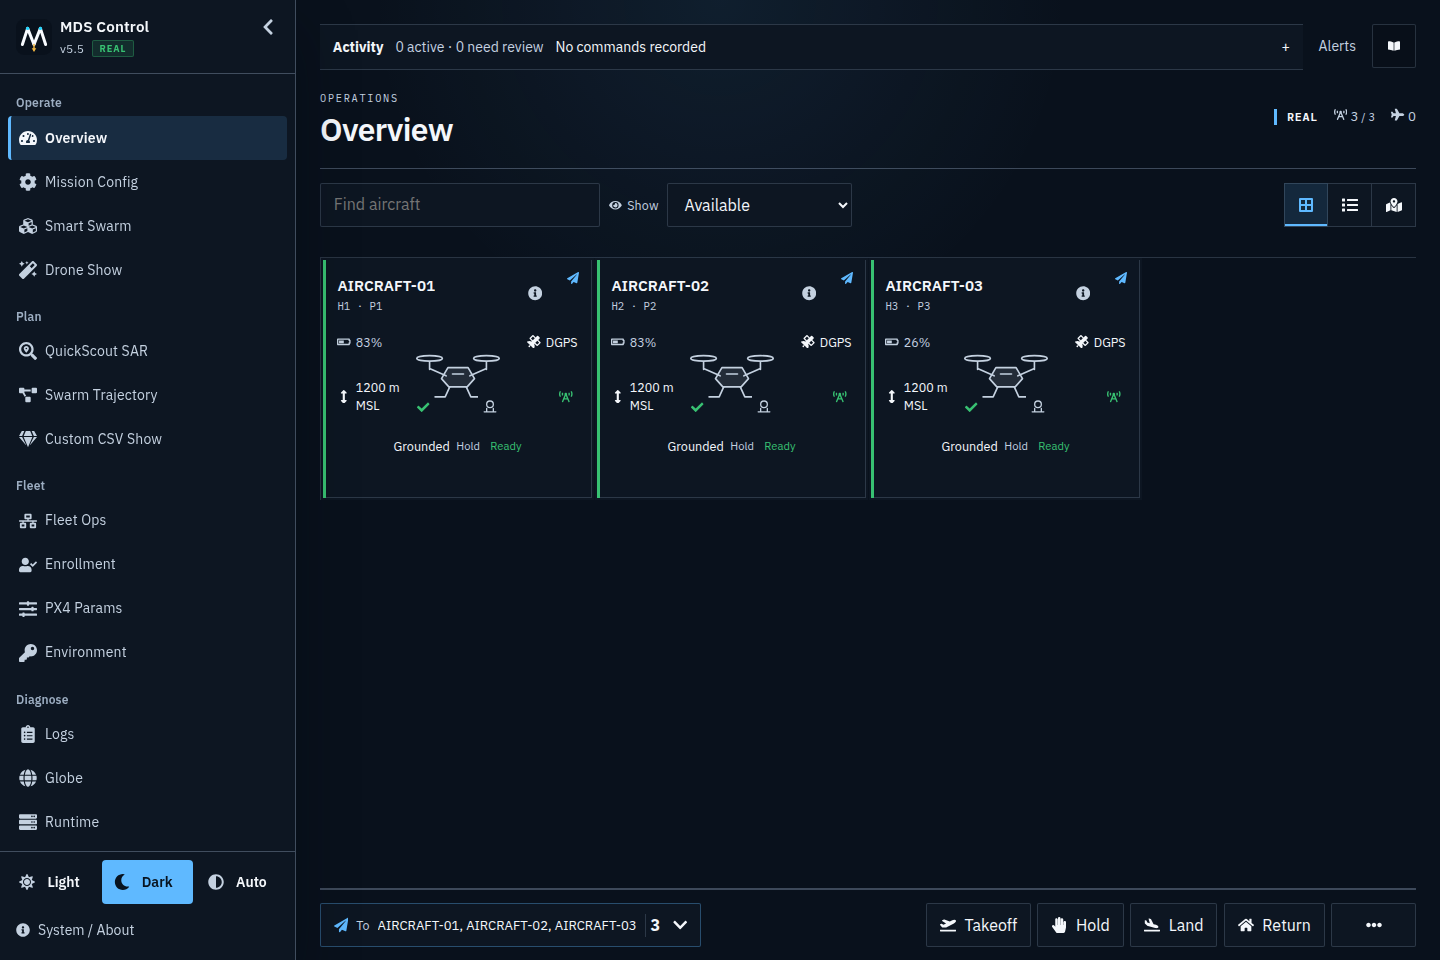
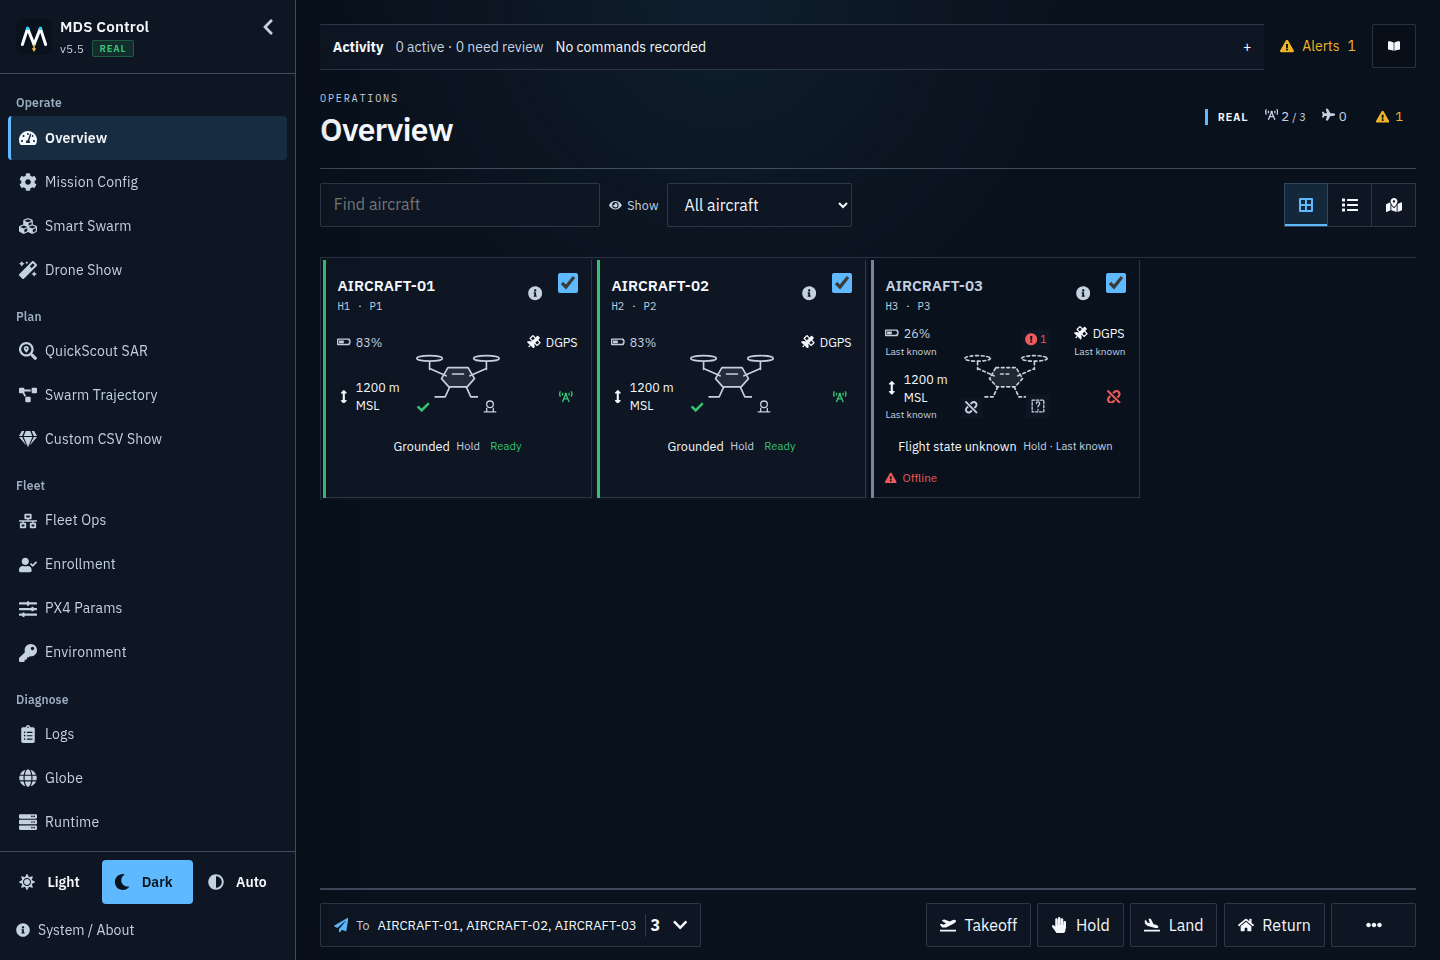
docs(swarm): publish scaled recipient workflow, screenshots and native acceptance

diff --git a/docs/features/smart-swarm.md b/docs/features/smart-swarm.md
@@ -57,7 +57,7 @@ For a clean first Smart Swarm demo in SITL:
 4. open `Smart Swarm` → `Design Swarm` and verify the saved SITL assignments from `swarm_sitl.json`
 5. use Top, Side, 3D and Links views to preview the intended cluster
 6. open `Operate`, select the saved cluster and review its aircraft; use **Takeoff** if needed, then wait for the aircraft to be airborne and settled
-7. choose **Start Swarm**, review the exact formation scope and native readiness, then confirm; use **Managed Return** on the same page when appropriate
+7. choose **Start Swarm**, review the exact formation scope and native readiness, then confirm; **Return all** opens Managed Return when needed
 8. if you want the full branch acceptance run from the command line, use:
    ```bash
    python3 tools/validate_smart_swarm_runtime.py
@@ -311,19 +311,20 @@ cluster command, so an old leader cannot mask a new follower retry.
 Use **Smart Swarm → Operate** for live Smart Swarm control:
 
 - **Start Swarm** for the reviewed saved cluster
-- **Hold Swarm** for the displayed cluster
-- **Managed Return** for sequential RTL
+- **Hold all** for the displayed cluster
+- **Return all** opens Managed Return for cluster-wide sequential RTL
 - **Other actions → Stop following / Land here / Immediate RTL** for explicit recovery
 
 The Operate cluster selection is independent of formation inspection and
-Overview's general aircraft selection. **Other actions → Recovery targets**
-selects the entire cluster or one named aircraft for individual recovery; inspect
-the exact target list before confirming. An ambiguous, stale, or non-executable
+Overview's general aircraft selection. **To** selects the aircraft for individual
+recovery under Other actions; inspect the exact target list before confirming.
+Hold all and Return all retain the entire displayed cluster. An ambiguous or non-executable
 cluster blocks cluster commands instead of silently choosing another cluster.
 Runtime preview and targets use the saved assignment; unsaved formation edits
 do not silently change a recovery target set.
 
-**Hold Swarm / Stop following** ends following and commands PX4 Hold on each selected
+**Hold all** ends following across the cluster; **Other actions → Stop following**
+ends following only for To. Both command PX4 Hold on the addressed
 airborne drone; resuming requires an explicit Start. **Land here** commands each
 selected drone to land at its current position. **Immediate RTL** ends following and
 commands each selected drone's own PX4 Return mode. It is **not** a coordinated
@@ -337,7 +338,8 @@ This keeps swarm intent explicit instead of overloading the generic command send
 
 ### Sequential Return
 
-On **Smart Swarm → Operate**, select the saved cluster and choose **Managed Return**.
+On **Smart Swarm → Operate**, select the saved cluster and choose **Return all**
+to open **Managed Return** for that entire cluster.
 Review the **Return interval** (default **10 seconds**, range 1–300 seconds).
 The confirmation lists the exact aircraft order and relative dispatch times.
 MDS ends following and confirms Hold on all selected aircraft, then dispatches
@@ -396,7 +398,7 @@ Mixed-mission leader rule:
 ### Formation preview and live readiness
 
 The dedicated **Smart Swarm → Operate** tab owns the saved-cluster control panel:
-**Takeoff → Start Swarm → Managed Return** are separate confirmed actions, never a combined
+**Takeoff → Start Swarm → Return all** are separate confirmed actions, never a combined
 automatic mission. The first saved cluster is the initial default. The runtime
 selection is retained for this GCS/mode browser session and is independent of
 drone inspection, formation plots and general dashboard dispatch selection.

diff --git a/docs/plans/2026-11-13-scoped-swarm-controls.md b/docs/plans/2026-11-13-scoped-swarm-controls.md
@@ -1,0 +1,62 @@
+# Explicit recipients and selected Smart Swarm Start
+
+## Accepted behavior
+
+Overview card bodies inspect. Their separate blue checkboxes edit the same To
+state as the shared chooser, without dispatch. Display filters and green
+readiness indicators remain independent. A reviewed action freezes its scope.
+
+Smart Swarm owns its own To snapshot. One cluster starts fully selected without
+another setup step. With multiple clusters, a deliberate formation choice
+initializes that cluster only. Polling, reconnects, new aircraft and disappearing
+members never widen a custom selection. Empty/missing targets remain explicit.
+
+Takeoff, Start and individual Other actions use To. Hold all and Return all
+explicitly recover the whole displayed cluster; Return all opens Managed Return.
+Deselecting an aircraft changes future commands, not running participation.
+Flight controls precede the bounded status roster; large summaries stay compact.
+
+## Native contract
+
+Selected Start infers the saved upstream chain as read-only references, not
+extra recipients. Existing native airborne, freshness and recovery checks apply.
+Active reference follow links must match the saved plan. References are checked
+before dispatch and again at the required-role barrier, with monotonic validity;
+after engagement, the aircraft-local link/recovery policy remains authoritative.
+No role promotion, navigation thresholds, offsets or control gains change.
+
+Empty reference lists are omitted on the wire for older full-cluster nodes.
+Reference-based Start requires advertised companion support. Uncertain submissions
+retain their original identity and recover by lookup, not automatic replay.
+Operate uses latest journal ownership per aircraft, so an old leader session
+cannot hide a newer follower retry. Fresh disarm cannot leave an aircraft stuck
+in historical Unconfirmed status; missing telemetry cannot establish disarm.
+
+## Validation evidence
+
+- 200 backend tests cover contract partitioning, admission, source follow-link
+  mismatch, callback capability, barrier expiry and submission behavior.
+- 173 UI tests cover shared card selection, frozen reviews, empty/missing
+  choices, single/100-aircraft defaults, cluster changes and follower retry.
+- 16 documentation/OpenAPI candidate generator checks pass. Generated candidates
+  remain non-callable; no Simurgh flight capability or policy is enabled.
+- Served-build Smart Swarm: 32 intercepted-browser cases, across single,
+  three, 100 and four-cluster/100-aircraft fixtures; 390/768/900/1440 widths,
+  dark/light. The fixture records exact target-only submission; no real commands.
+- Three-aircraft PX4/Gazebo rehearsal: full Start, selected follower Hold/retry,
+  unchanged unselected leader/follower command identities and fresh reports,
+  grounded-reference rejection in native review, final Land/disarm cleanup.
+
+The native rehearsal used a recorded source-sync overlay on the accepted SDK4
+image. It validates source behavior, not a newly baked/published image. Public
+image rebuild/packaging remains a separate resource-gated release task; the
+previous pinned image is not relabeled as this feature. Real companions need
+the compatible source update before reference-based Start. Hardware repair,
+propulsion acceptance and real-flight clearance are not established by SITL.
+
+## Operator guide
+
+Use the [illustrated field workflow](../guides/smart-swarm-field-workflow.md).
+The normal sequence is unchanged: Takeoff → stable hover → Start Swarm → verify
+Following. Use To only for an intentional subset or retry. Hold all and Return
+all remain the cluster-wide recovery controls. Screenshots use synthetic aircraft.

diff --git a/docs/guides/smart-swarm-field-workflow.md b/docs/guides/smart-swarm-field-workflow.md
@@ -153,7 +153,7 @@ does not turn a pre-start capture into an unnoticed active update.
 
 ![Takeoff review separates aircraft selection from launch mode](../assets/smart-swarm/capture-03-takeoff.png)
 
-![Operate shows cluster roles and following status](../assets/smart-swarm/capture-04-operate.png)
+![Operate defaults to the full cluster with controls above the status roster; synthetic SITL aircraft](../assets/smart-swarm/operate-recipients.png)
 
 ### Command a subset or retry one follower
 
@@ -164,6 +164,10 @@ does not turn a pre-start capture into an unnoticed active update.
 3. Confirm when ready, then verify the selected follower reports Following.
    An already-running selected follower must first be stopped with
    **Other actions → Stop following**, or finish its previous action.
+
+![To stages an exact recipient choice on a phone](../assets/smart-swarm/operate-recipient-picker.png)
+
+![Follower-only Start identifies its read-only leader reference; synthetic SITL review](../assets/smart-swarm/operate-selected-follower.png)
 
 Sources may be flying manually or already leading. They must have fresh native
 airborne evidence and not be taking off, returning or landing. An active relay
@@ -216,7 +220,8 @@ may not adopt an ordinary update at the same time; do not assume simultaneous mo
 
 ## Return and land
 
-For independent aircraft, choose **Managed Return** on **Smart Swarm -> Operate**.
+For independent aircraft, choose **Return all** on **Smart Swarm -> Operate**
+to open **Managed Return** for the displayed cluster.
 Review aircraft order and the interval, then confirm. It requests Hold and submits
 native RTL commands one by one. The default interval is **10 seconds between
 submissions**, not between landings. Watch each aircraft's result.
@@ -231,8 +236,8 @@ RTL nor Managed Return guarantees nonintersecting paths; PX4 home and return
 altitude still determine the flight. A physically attached net needs a separate
 loaded-flight and recovery procedure before use.
 
-For **Immediate RTL** or **Land here**, open **Other actions** and check
-**Recovery targets**: Entire cluster or the intended individual aircraft.
+For **Immediate RTL** or **Land here**, first check **To**, then open
+**Other actions**. These commands address To, not unselected aircraft.
 Land here descends at the current location; RTL follows PX4's return procedure.
 
 ## Resolve a blocked step

diff --git a/AGENTS.md b/AGENTS.md
@@ -29,6 +29,10 @@ Do not assume the environment. Detect it first.
   visible/online aircraft. Filters, inspection, reconnects and disappearing
   groups must not retarget a reviewed action. Mission workspaces own mission
   launch/recovery; close capability gaps before retiring an older entry point.
+- Smart Swarm command recipients are not its formation membership. Selected
+  Start infers read-only upstream references and verifies native source evidence
+  without restarting those aircraft or rewriting saved roles. Preserve explicit
+  whole-cluster recovery labels and normal full-cluster wire compatibility.
 - Treat unknown telemetry as unknown, not fabricated GPS/health or evidence of
   disarm/landing. Inspect aircraft by identity against the current shared model.
 - Shared-shell responsive behavior has one viewport owner. CSS should consume
